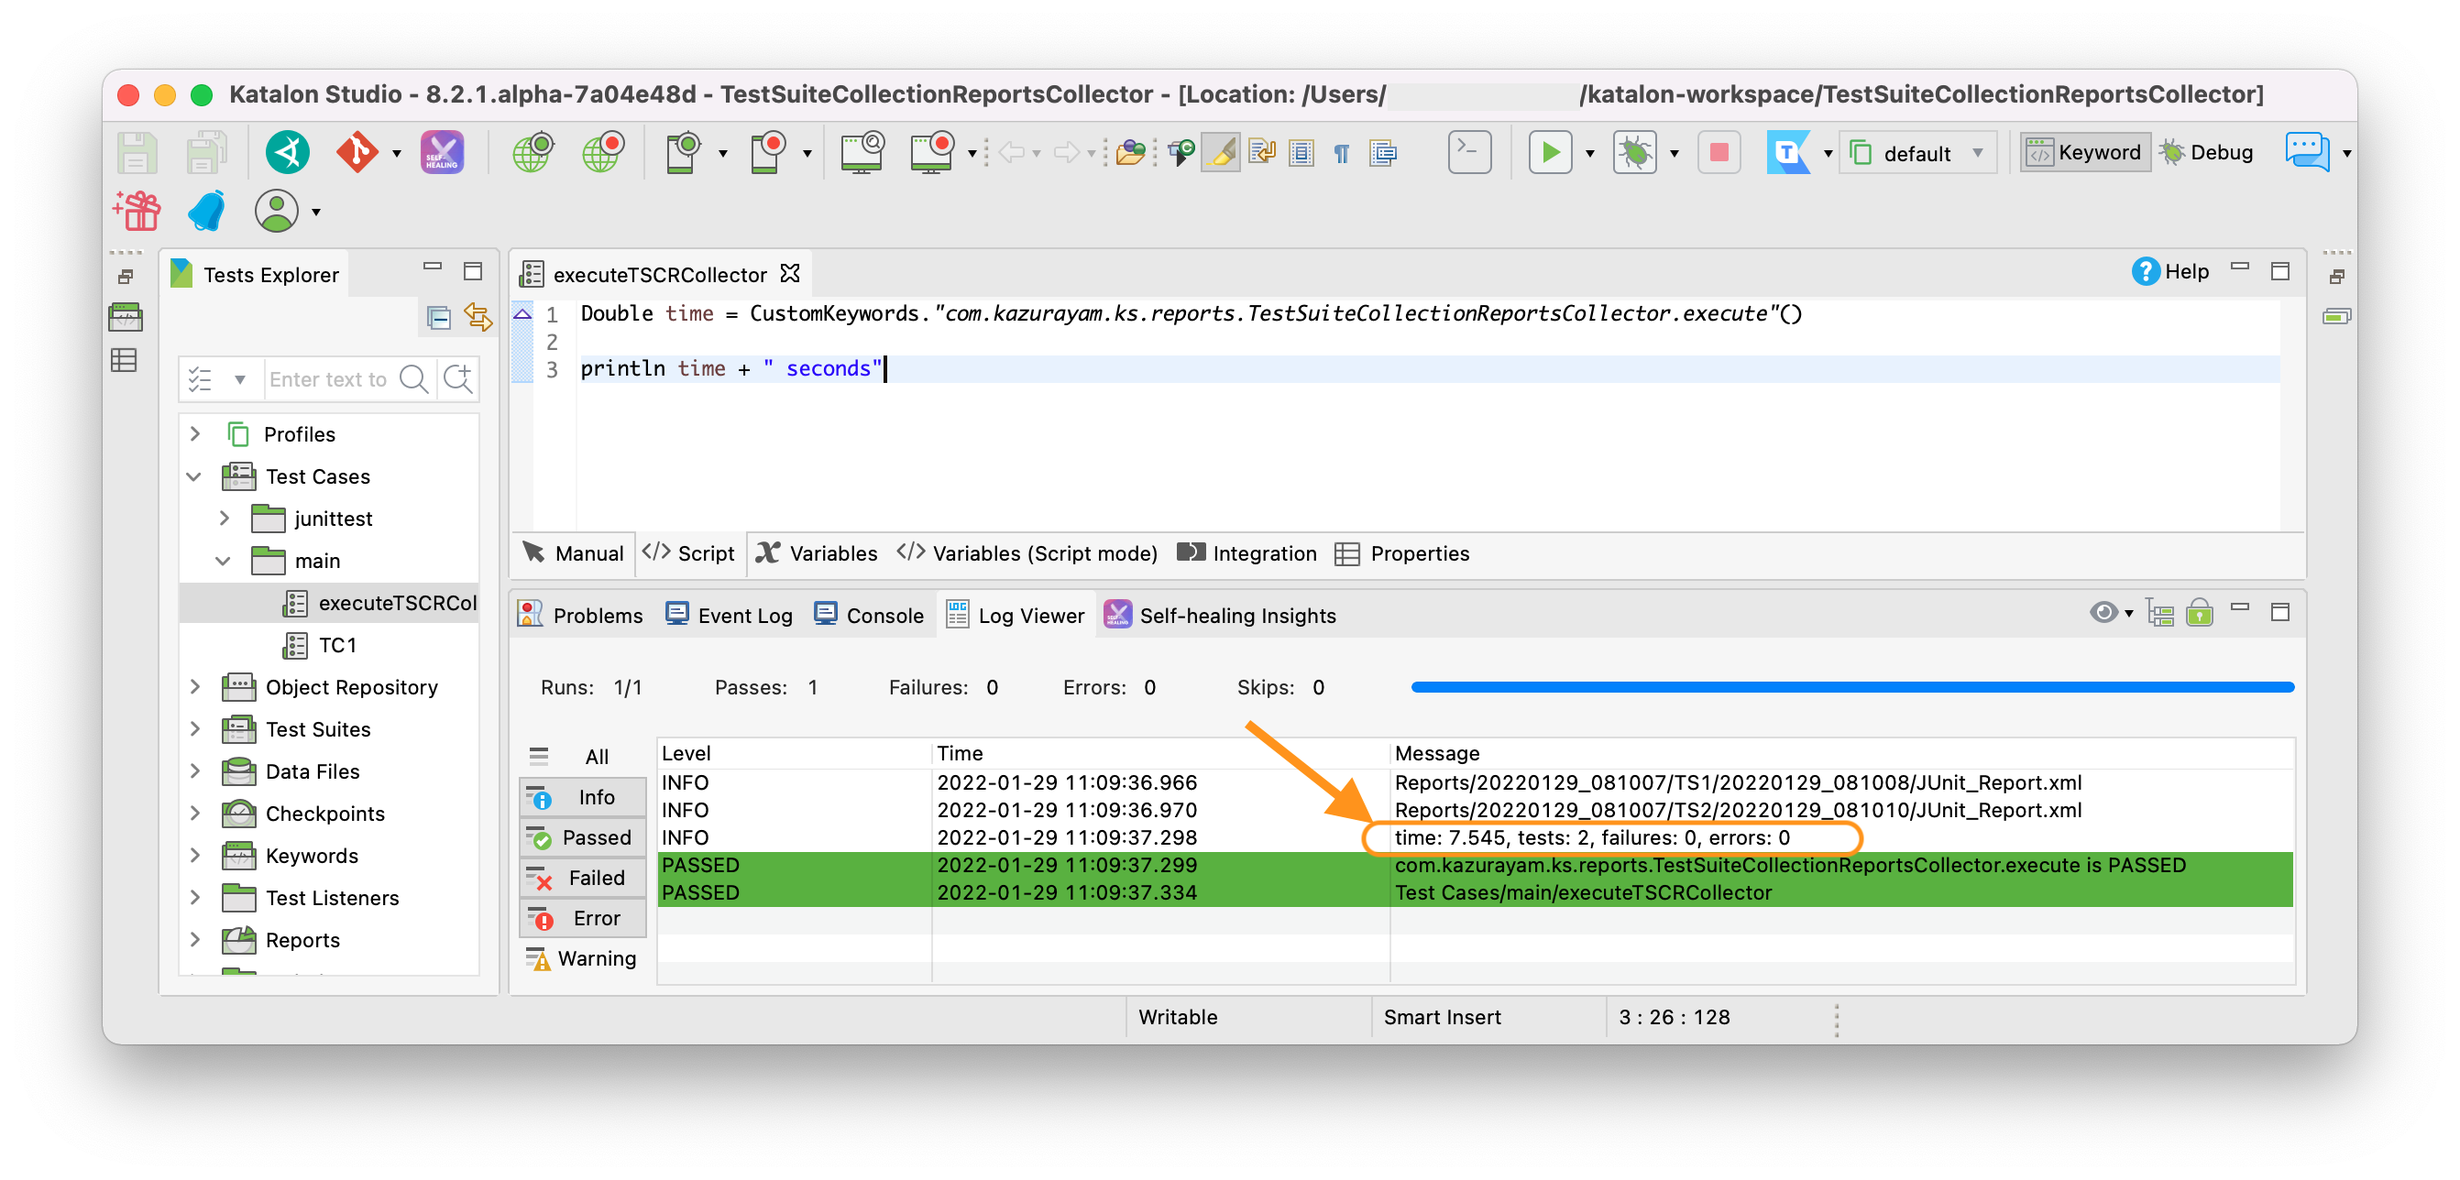
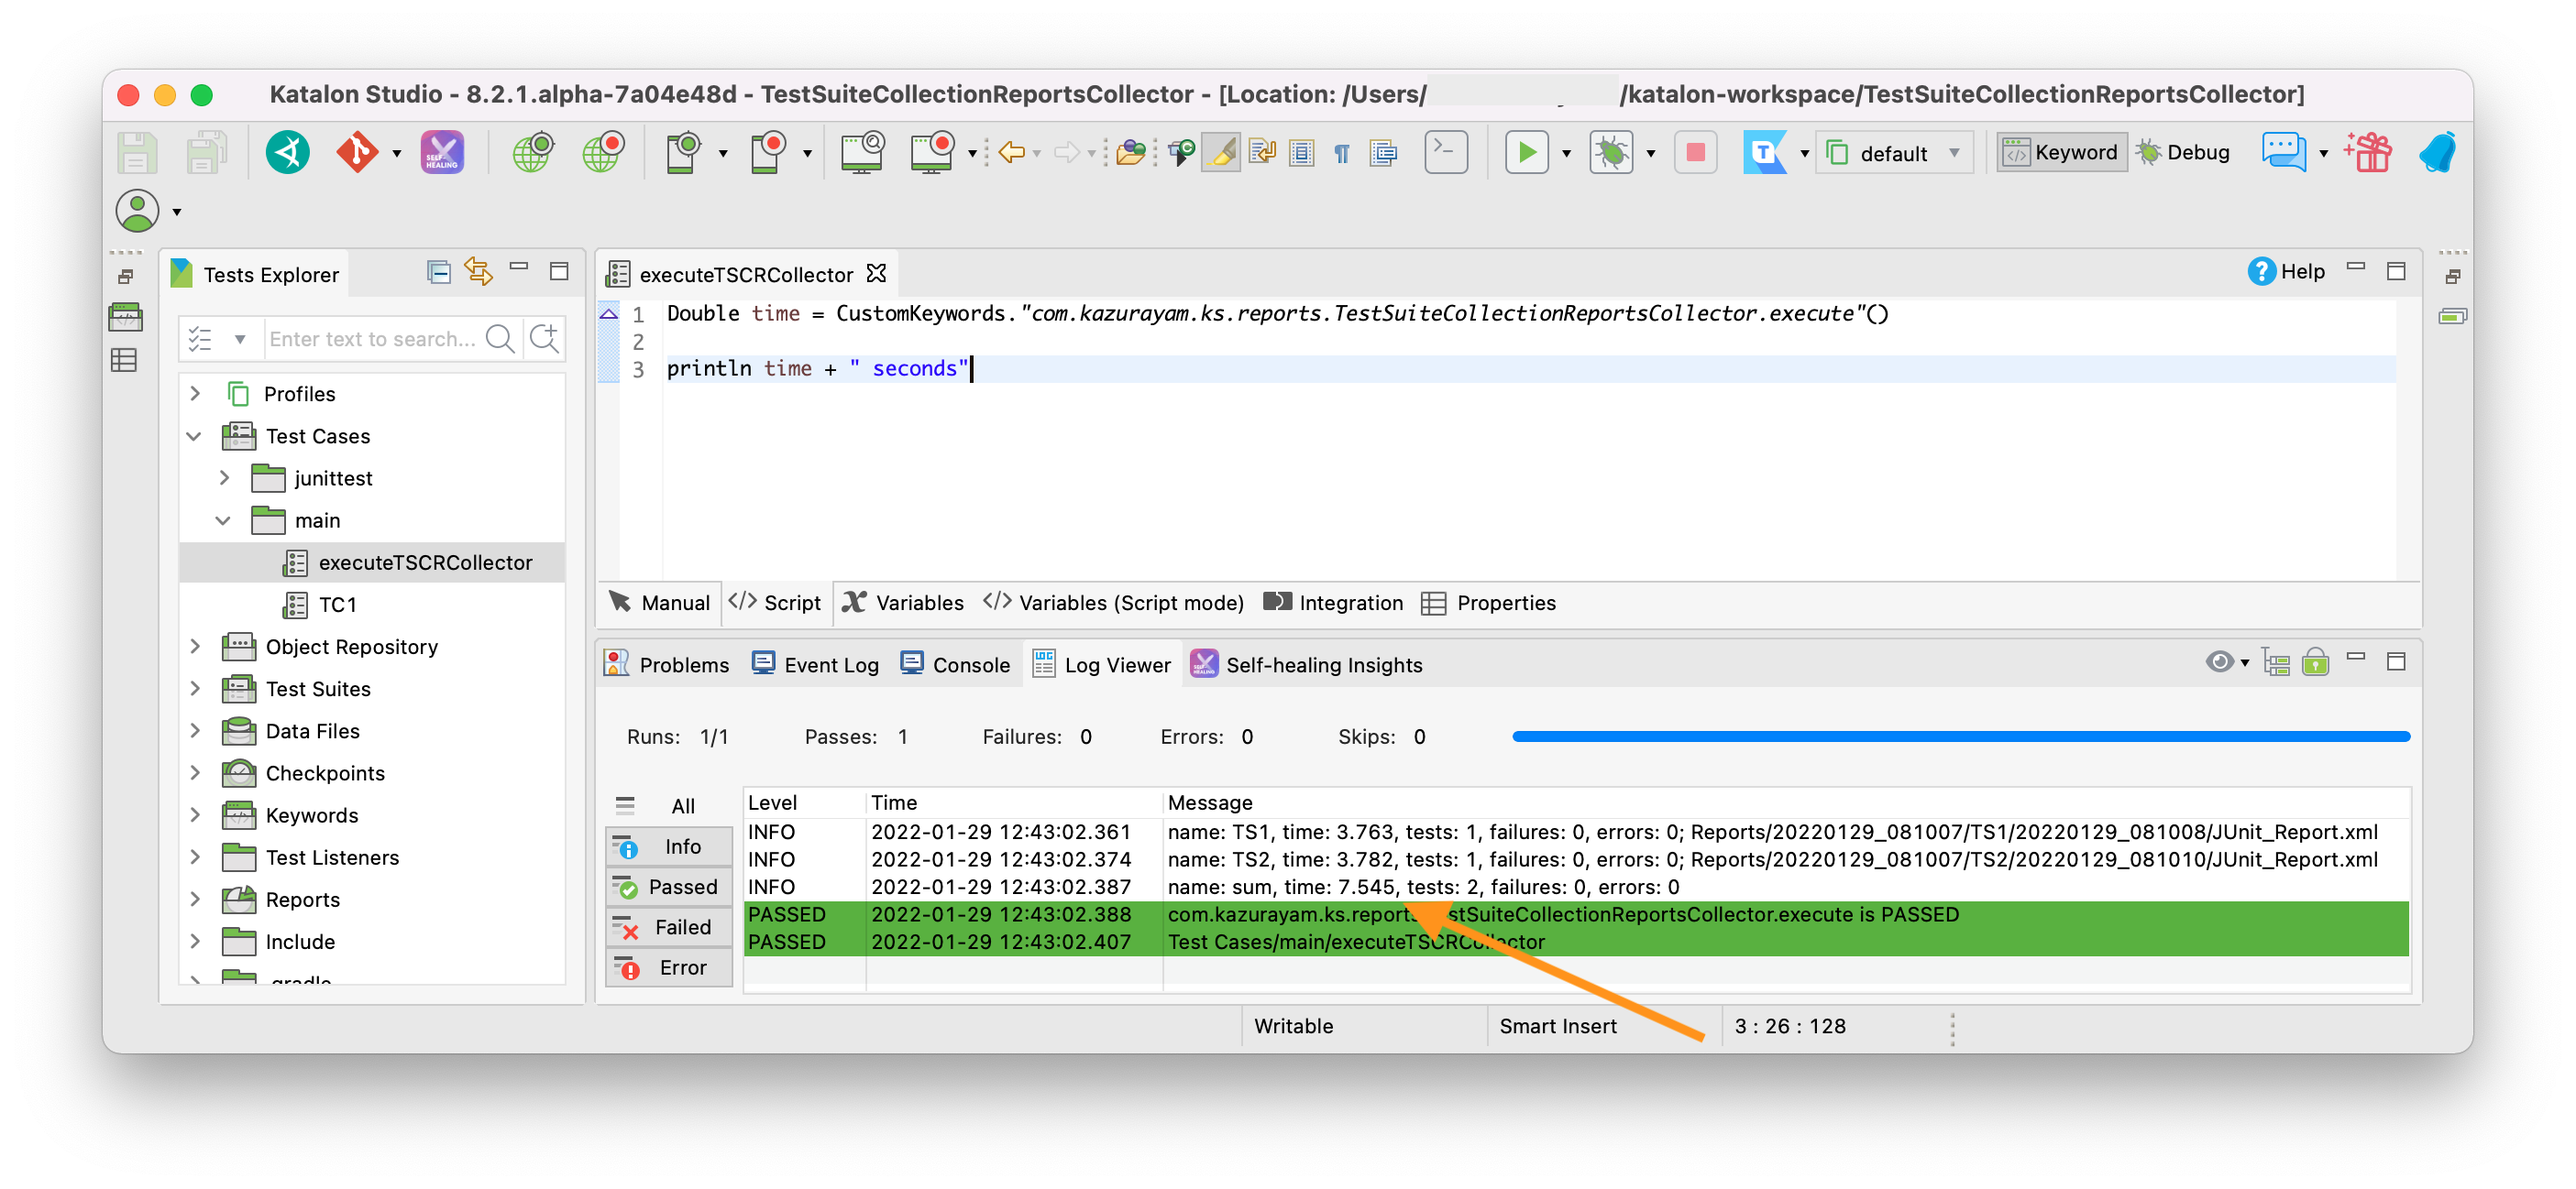
REAME done

Changed region(s): [[0.0309, 0.0621, 0.9586, 0.8696], [0.8659, 0.1863, 0.9586, 0.2795], [0.4639, 0.8385, 0.5257, 0.8696]]

diff --git a/README.md b/README.md
@@ -1,1 +1,93 @@
 # TestSuiteCollection Reports Collector
+
+@author kazurayam
+@date 29 Jan 2022
+
+This is a Katalon Studio project where I developed a jar file `com.kazurayam.ks.reports.TestSuiteCollectionCollector-x.x.x.jar`.
+
+This jar provides a Custom Keyword operational in any Katalon Studio project. It can display the total execution time of a Test Suite Collection executuion in seconds.
+
+This Custom Keyword was developed to propose a solution to a question raised in the Katalon User Forum:
+
+-   [Execution start end date time and duration of test suite collection](https://forum.katalon.com/t/execution-start-end-date-time-and-duration-of-test-suite-collection/62027)
+
+This project was developed using Katalon Studio v8.2.0, but the Custom Keyword should run on any version.
+
+## Problem to solve
+
+Katalon Studio provides a feature called "Test Suite Collection". A Test Suite Collection is a collection of multiple Test Suites. You can execute the Test Suites as one batch by executing the Test Suite Collection.
+
+Let me present an example. I have a Katalon Studio project where I have 2 Test Suites: `TS1` and `TS2`. And I have a Test Suite Collection named `TSC`. When I ran `TSC`, it generated outputs in the `Reports` folder, for example as follows:
+
+    $ cd Reports
+    :~/tmp/TestSuiteCollectionReportsCollector/Reports (master *)
+    $ tree .
+    .
+    ├── 20220129_104341
+    │   ├── TS1
+    │   │   └── 20220129_104343
+    │   │       ├── 20220129_104343.csv
+    │   │       ├── 20220129_104343.html
+    │   │       ├── JUnit_Report.xml
+    │   │       ├── execution.properties
+    │   │       ├── execution.uuid
+    │   │       ├── execution0.log
+    │   │       ├── testCaseBinding
+    │   │       └── tsc_id.txt
+    │   ├── TS2
+    │   │   └── 20220129_104345
+    │   │       ├── 20220129_104345.csv
+    │   │       ├── 20220129_104345.html
+    │   │       ├── JUnit_Report.xml
+    │   │       ├── execution.properties
+    │   │       ├── execution.uuid
+    │   │       ├── execution0.log
+    │   │       ├── testCaseBinding
+    │   │       └── tsc_id.txt
+    │   └── TSC
+    │       └── 20220129_104341
+    │           └── 20220129_104341.rp
+    └── Self-healing
+        └── broken-test-objects.json
+
+    8 directories, 18 files
+
+In the `Reports/20220129_104341/TS1/20220129_104343/JUnit_Report.xml` file, I found:
+
+    <testsuites name="TS1" time="3.763" tests="1" failures="0" errors="0">
+
+In the `Reports/20220129_104341/TS2/20220129_104345/JUnit_Report.xml` file, I found:
+
+    <testsuites name="TS2" time="3.782" tests="1" failures="0" errors="0">
+
+But I could not find the sum of TS1 and TS2 duration. I had to manually calculate it. It was a poor experience.
+
+## Solution
+
+I have developed a Custom Keyword. It looks into the `Reports` folder, identify the latest Test Suite Execution (TSC for short), find the `JUnitReport.xml` files of the Test Suites executed in the TSC, calculate the duration of the TSC in seconds, display the duration in the console. For example
+
+![demo](./docs/images/demo.png)
+
+This would be useful especially when a TSC contains many Test Suites and each Test Suites take long time to finish.
+
+## Description
+
+-   It is assumed that you already have a Katalon Studio project with a Test Suite Collection.
+
+-   download the the jar file of `TestSuiteCollectionReportsCollector` from the [Releases](https://github.com/kazurayam/TestSuiteCollectionReportsCollector/releases) page.
+
+-   locate the jar file into the `Drivers` folder of your project
+
+-   Stop and retart Katalon Studio to let it acknowledge the new jar. Re-open the project.
+
+-   make a Test Case script of any name, that calls the custom keyword. See the sample code.
+
+<!-- -->
+
+    Double time = CustomKeywords."com.kazurayam.ks.reports.TestSuiteCollectionReportsCollector.execute"()
+
+    println time + " seconds"
+
+-   Execute your Test Suite Collection.
+
+-   After the TSC, run the test case script, which will display the total duration of the TSC.
